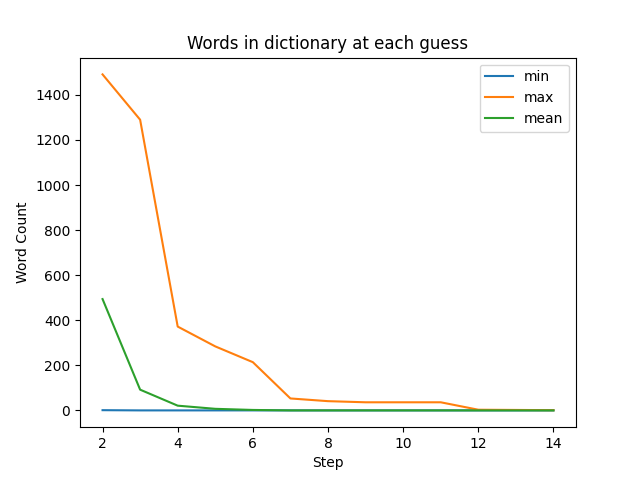
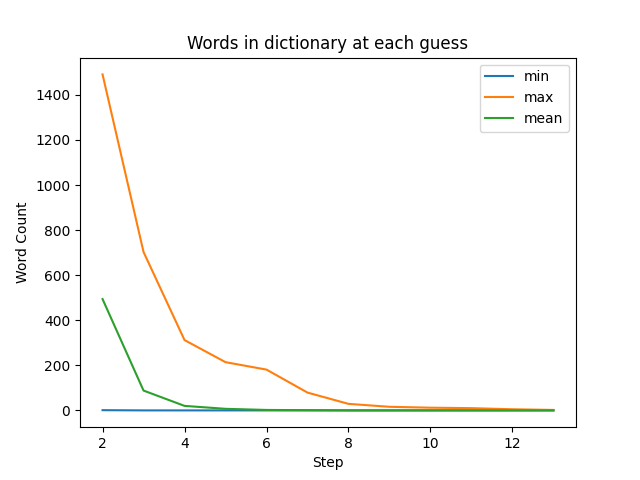
Updated charts and readme.

diff --git a/wordle.py b/wordle.py
@@ -117,7 +117,9 @@ def next_guess(guess, word_chosen, word_list):
     # matches, so if there's a repeat letter that was both green and yellow, this step will keep that
     # word in the list. 
 
+    inexact_matches = False
     if "1" in guess_copy:
+        inexact_matches = True
 
         # We're going to rebuild the word guess list by adding words that have all inexact matches.
         new_words = list()
@@ -317,8 +319,9 @@ def main():
     print("\n\n---------------- Wordle Analyzer ----------------\n\n")
 
     # ------------------------------------------------------------------------------------------------
-    # Histogram of letters from the answer list. ORATE has the higest frequency of letters
+    # Histogram of letters from the total word list. 
     # ------------------------------------------------------------------------------------------------
+    
     # print("Histogram of letters in full word list")
     # histogram = count_letters(word_list)
     # histogram = dict(sorted(histogram.items(), key=lambda item: item[1], reverse=True))
@@ -331,8 +334,9 @@ def main():
     # plt.show()
 
     # ------------------------------------------------------------------------------------------------
-    # Histogram of letters from the answer list. ORATE has the higest frequency of letters
+    # Histogram of letters from the answer list. 
     # ------------------------------------------------------------------------------------------------
+    
     # print("Histogram of letters in answer key")
     # histogram = count_letters(word_answer_list)
     # histogram = dict(sorted(histogram.items(), key=lambda item: item[1], reverse=True))
@@ -344,8 +348,9 @@ def main():
     # plt.show()
 
     # ------------------------------------------------------------------------------------------------
-    # Algorithm test words
+    # Algorithm test words - single pass through solver
     # ------------------------------------------------------------------------------------------------
+    
     # # No letter overlap
     # guess = "orate"
     # word_chosen = "biddy"
@@ -356,17 +361,18 @@ def main():
     # guess = "orate"
     # word_chosen = "tides"
     # # All types of matches
-    guess = "orate"
-    word_chosen = "trade"
-    next_guess(guess, word_chosen, word_list)
+    # guess = "orate"
+    # word_chosen = "trade"
+    # next_guess(guess, word_chosen, word_list)
     # # Too many inexact matching letters
     # guess = "ezzze"
     # word_chosen = "hoped"
     # next_guess(guess, word_chosen, word_list)
 
     # ------------------------------------------------------------------------------------------------
-    # Single pass through the solver
+    # Algorithm test - full solve
     # ------------------------------------------------------------------------------------------------
+    
     # guess = "orate"
     # word_chosen = "hoped"
     # numguesses = iterate_until_solved(guess, word_chosen, word_list)
@@ -392,19 +398,20 @@ def main():
     # ------------------------------------------------------------------------------------------------
     # Test seed word against a sample of the entire list
     # ------------------------------------------------------------------------------------------------
-    # shorter_word_list = random.sample(word_guess_list, 2000)
-    # new_word_list = shorter_word_list + word_answer_list
-    # guess = "orate"
-    # numguesses = list()
-    # words_per_step = list()
 
-    # for answerword in word_answer_list:
-    #     word_count_per_step = iterate_until_solved(guess, answerword, new_word_list)
-    #     words_per_step.append(word_count_per_step)
-    #     numguesses.append(len(word_count_per_step))
+    shorter_word_list = random.sample(word_guess_list, 2000)
+    new_word_list = shorter_word_list + word_answer_list
+    guess = "orate"
+    numguesses = list()
+    words_per_step = list()
 
-    # plot_words_per_step(words_per_step)
-    # plot_numguess(numguesses)
+    for answerword in word_answer_list:
+        word_count_per_step = iterate_until_solved(guess, answerword, new_word_list)
+        words_per_step.append(word_count_per_step)
+        numguesses.append(len(word_count_per_step))
+
+    plot_words_per_step(words_per_step)
+    plot_numguess(numguesses)
 
 if __name__ == "__main__":
     main()

diff --git a/README.md b/README.md
@@ -1,73 +1,86 @@
 # Wordle Analysis Tool
 
-## NOTE: updates coming to the charts since I fixed the algorithm
-
 ## Intro
 
-Everyone's addicted to Wordle! I wrote this because I was curiuos about a few things.
+I've been learning both Python and Data Science recently, and I was looking for a fun real-world exercise to apply some of what I've been learning. Given that everyone is addicted to Wordle, I thought I'd do some analysis on Wordle solutions. I had a few questions in mind:
 
 1. What is the best word to start with?
-2. How many steps does it take before the large list of words (~13,000) get pared down to something small?
-3. After a couple of steps, is there a good subset of words to know that will ensure success?
-4. Given a dictionary of words, how many steps would it take on average to solve a Wordle?
-5. Assuming the author of Wordle tried to pick well known words, and assuming that most people don't know 13,000 5-letter words, what is the most realistic number of solving steps? In other words, should an average person be able to solve every Wordl in 6 tries?
+2. Given a dictionary of words, how many steps would it take on average to solve a Wordle puzzle?
+3. How many steps does it take before the large list of words (~13,000) get pared down to something small?
+4. Assuming the author of Wordle tried to pick well-known words, and assuming that most people don't know 13,000 five-letter words, what is a more realistic number of steps? Should an average person be able to solve every Wordle in 6 tries?
 
-This tool isn't design to help you make your next guess. It's designed to run through many wordle rounds in order to do analysis on the overall game.
+Note that this tool isn't design to help you make your next guess. It's designed to run through many wordle rounds in order to do an analysis on the overall game.
 
 ## Caveats
 
-Wordle's *answer key* and *dictionary of allowed words* are both freely available online and easily viewable in Chrome's developer console. These two lists are included in this repo, but they've been alphabetized in the hopes that they aren't too much of a spoiler. Still, **don't look if you don't want to know**. I'm using these word lists as part of the solving algorithm.
+Wordle's *answer key* and *dictionary of allowed words* are both freely available online and easily viewable in Chrome's developer console. These two lists are included in this repo, but they've been alphabetized in the hopes that they aren't too much of a spoiler. Still, **don't look if you don't want to know**. I'm using these word lists as part of the solving algorithm. Note: I don't know when the New York Times will update the Wordle answer key, but it probably doesn't matter for the purpose of answering the questions in this exercise.
 
-As you can see from the code, I'm not an expert Python developer. I've been learning both Python and Data Science, and this seemed like a fun real-world exercise. As with any language, you have to program in it for a while to become fluent. If you see areas where I could have coded something in a more python-like way, please make an issue or leave a pull request.
+As you can see from the code, I'm not yet an expert Python developer. If you see areas where I could have coded something in a more python-like way, please submit an issue or leave a pull request.
 
-Finally, this is work in progress.
+## The Guess Algorithm
 
-## The Solving Algorithm
+The core of this tool is the guessing algorithm. That's probably misnamed because it doesn't make the guess for you. Instead it reduces the dictionary based on the guess you give it using the rules of Wordle. You feed the guess algorithm with 1) your word guess, 2) the answer word, and a 3) dictionary of words that contains all allowable word guesses and answer words. The guess algorithm then does these steps:
 
-You feed the guess algorithm with 1) your word guess, 2) the answer word, and a 3) dictionary of words that contains all allowable word guesses and answer words. The guess algorithm does these steps:
+1. Mark the guess word with "2" for exact matches (right letter, right spot), aka green squares. Mark the guess word with "1" for inexact matches (right letter, wrong spot), aka yellow squares. As with the real Wordle game, if an inexact matching letter appears in multiple places in a word, the first place is the one marked. This algorithm doesn't really care which one is marked, though.
+2. Filter the dictionary of words you supplied based on the exact letter placements. For both debugging purposes and for Step 3, two filtered dictionaries are created. The first is the filtered word list. The second is the same filtered word list but with "-" in place of the exact character matches.
+3. Further reduce this dictionary of words based on the remaining inexact letters, the yellow squares. This filtering uses the word list from Step 2 with the "-" in place of the exact letter matches so that if you have both green and yellow of the same letter, the green matches don't also count as yellow matches.
+4. Finally, remove words from step 3's filtered dictionary that contain unique unmatched letters, the black squares. Also remove words that contain too many matches, e.g. a letter that appears in both a yellow and a black square.
 
-1. Mark the guess word with "2" for exact matches (right letter, right spot), aka green squares. Mark the guess word with "1" for inexact matches (right letter, wrong spot), aka yellow squares. As with the real Wordle game, if an inexact matching letter appears in multiple places in a word, the first place is the one marked.
-2. Filter the dictionary of words based on the exact letter placements. For both debugging purposes and for Step 3, two dictionaries are created. The first is the filtered word list. The second is the filtered word list with "-" in place of the exact character matches.
-3. Filter the reduced dictionary of words based on the remaining inexact letters, the yellow squares. This filtering uses the word list from Step 2 with the "-" in place of the exact letter matches so that if you have two of the same letter, they don't also count as inexact matches.
-4. Finally, remove words from this filtered dictionary that contain unmatched letters, the black squares. One caveat here is if a letter is in both a yelllow square and a black square, I don't remove words that contain only one instance of that letter, rather than two (or more). This was for implementation expediency, but it technically means that there could be a very few number of words left after this step that aren't actually good guesses because they contain too many inexact matching letters. I will go back and fix this at some point, but I believe this impact to be very small relative to the stats I'm trying to gather.
-
-So this guess algorithm represents one guess. To run the algorithm repeatedly towards a solution, you have to keep making guesses, each time feeding in the further-reduced list of words. The seed guess I use is a word with the highest frequency of letters (see below if you don't mind the spoiler). The subsequent gueses are done by having the algorithm randomly pick the next word from the filtered dictionary produced by the previous guess. The algorithm quickly converges to a small list of words, but there can be a long tail as the algorithm picks between the remaining handful of words which are close enough to not bring about big reductions in the filtered dictionary.
+This guess algorithm represents one guess...one step in the puzzle solution. To run the algorithm repeatedly towards a solution, you have to keep making guesses, each time feeding in the further-reduced list of dictionary words from the previous guess. The seed guess I use is a word with the highest frequency of letters (see below if you don't mind the spoiler). The subsequent gueses are done by having the algorithm randomly pick the next word from the filtered dictionary produced by the previous guess. The algorithm pretty quickly converges to a small list of words, but that doesn't mean every puzzle is solvable in 6 steps. See below for more.
 
 ## --------------- SPOILER BELOW ON BEST FIRST GUESS ----------------
 
 ## What is the best word to start with?
 
-This was the first surprise. Let's take a look at two histograms. The first histogram shows the distribution of letters in the entire word list (allowable guesses + answers). The second shows a histogram of only the answer list. Based on this information, you would choose AROSE with the first list and ORATE with the second. Of cousre, we only care about the answers, so ORATE is the world we'll start with in the rest of the simualtions.
+Let's take a look at two histograms. The first histogram shows the distribution of letters in the entire word list (allowable guesses + answers). The second shows a histogram of only the answer list. Based on this information, you would choose AROSE with the first list and ORATE with the second. Those choices would contain the most frequently occurring letters. Since we only care about the answers, ORATE is the world we'll start with in the rest of the simualtions.
 
-You might wonder why these are different, though. The short answer is that the allowable guesses list has a shockingly high number of words that that most people, msylef included, have never heard of. The guess list wasn't intended to be only common words. It was apparently intended to cover most 5-letter words in a dictionary. In the charts below, I try a smaller dictionary to see how it affects game play.
+You might wonder why these staring words and the letter distributions are so different, though. The answer is that the allowable guesses list has a shockingly high number of words that most people, myself included, have never heard of. The allowable guesses list wasn't intended to be only common words as far as I can tell. It was apparently intended to cover most 5-letter words in the English dictionary. In the charts below, I try a smaller dictionary to see how it affects game play.
 
 ![](FullHistogram.png)
 ![](AnswersHistogram.png)
 
-## How many steps does it take to get to a manangeable list?
-
-[1, 2, 3, 4, 5, 6, 7, 8, 9, 10, 11, 12, 13, 14]
-
-Mins:  [12972, 1, 0, 0, 0, 0, 0, 0, 0, 0, 0, 0, 0, 0]
-
-Maxes: [12972, 1491, 1290, 372, 284, 214, 53, 41, 36, 36, 36, 3, 2, 1]
-
-Means: [12972, 494, 92, 21, 7, 2, 0, 0, 0, 0, 0, 0, 0, 0]
-
-![img](DictioaryPerStep.png)
-
-## After a couple of steps, is there a good subset of words to know that will ensure success?
-
-TODO
-
 ## How many steps would it take on average to solve a Wordle?
 
-As noted above, the dictionary of allowable words is quite large (~13,000 words) and is filled with a bunch of words most people don't know. So for this question, we're assuming that someone could know all of the words in the dictionary and then just randomly pick words to get the next guess. In such a scenario, a typical distribution of the number of guesses required to solve every word is below. Again, we're starting with ORATE here, since it has the highest letter count in the answer key.
+As noted above, the dictionary of allowable words is quite large (~13,000 words) and is filled with a bunch of words most people don't know. So for this question, I'm assuming that someone could know all of the words in the dictionary and then just randomly pick words to get the next guess. In such a scenario, a typical distribution of the number of guesses required to solve every word is below. I'm starting with ORATE here, since it has the highest letter count in the answer key. The result makes some sense, given that the distribution is centered at 5 guesses. But there's still a long tail of losing rounds (rounds that take more than 6 guesses).
 
 ![img](NumStepsHistogram.png)
 
+## How many steps does it take to get to a manangeable list?
+
+Taking that last question, what does the dictionary look like at each step? How many steps will it take to reduce that 13,000 word dictionary down to a reasonable size? This is the same data set as the previous question, but tabulated differently. The table and chart below show that by the 4th guess, the list is quite small for the average round of Wordle. Also, on average, most rounds are solved by the 6th guess. That's great, but there is a huge range in dictionary size at each step, and for some rounds, the number of words remaining is still very large after 5 guesses.
+
+|      | 1     |  2  |  3  |  4  |  5  |  6  | 7 | 8 | 9 | 10 | 11 | 12 | 13 |
+| :--: | ----- | :--: | :-: | :-: | :-: | :-: | :-: | :-: | :-: | :-: | :-: | :-: | :-: |
+| Min | 12972 |  1  |  0  |  0  |  0  |  0  | 0 | 0 | 0 | 0 | 0 | 0 | 0 |
+| Mean | 12972 | 494 | 88 | 20 |  7  |  2  | 1 | 0 | 0 | 0 | 0 | 0 | 0 |
+| Max | 12972 | 1491 | 703 | 312 | 214 | 181 | 79 | 29 | 16 | 12 | 10 | 5 | 2 |
+
+![img](DictioaryPerStep.png)
+
 ## How much of a difference does a smaller dictionary make?
 
-But the last questions obscures the fact that most people probalby know maybe 3000 words out of that exhaustive dictionary of 13,000. So let's run this again, but reduce the dictionary size. I didn't feel like going through the entire dictionary and trying to pull out known common words, so I just took a random sample of the dictionary, figuring that this would be close enough to get an idea. I randomly picked 2000 words from the allowed words list and added in the 1315 answer words for a total of 4315 words. Again, I started with ORATE. As you can see, the mean shifted left, and the distribution got tighter. This feels like a better representation of how people actualy play the game. But even with the reduction, there's still a few words that have enough remaining dictionary words in the later steps to trip you up.
+But we said that the allowable guesses dictionary has a huge number of words that most people don't know. If you don't believe me, take a look at the allowed guesses file in this repo. I suspect you won't know many if not most of the words listed. 
+
+So let's run this again, but reduce the dictionary size to something that feels more manageable. The right way to do this would have been to go through the 13,000 words and pick ones that I thought were familiar. However, that's more work than I wanted to do, so instead I just took a random sample of the allowed guesses dictionary, figuring that this would be close enough statistically to get an answer to my question. I randomly picked 2000 words from the allowed words list and added in the 1315 answer words for a total of 4315 words. Again, I started with ORATE, since that's still the word from the answers with the highest letter usage.
+
+As you can see, the mean shifted left, and the distribution got tighter, both indicators that in practical terms, solving a Worlde in 6 steps seems realistic for most words. This feels like a better representation of how people actually play the game. Yet even with the reduction, there are still a few words that have enough remaining dictionary words in the later steps to trip you up. I wonder if I had manually reduced the dictionary to common known words if the stats would improve even more.
+
+
+|      | 1    |  2  |  3  |  4  | 5 | 6 | 7 | 8 | 9 | 10 |
+| :--: | ---- | :-: | :-: | :-: | :-: | :-: | :-: | :-: | :-: | :-: |
+| Min | 4315 |  1  |  0  |  0  | 0 | 0 | 0 | 0 | 0 | 0 |
+| Mean | 4315 | 164 | 26 |  7  | 2 | 0 | 0 | 0 | 0 | 0 |
+| Max | 4315 | 428 | 176 | 139 | 82 | 16 | 12 | 8 | 7 | 1 |
 
 ![img](NumSteps2000Histogram.png)
+![img](DictioaryPerStep2000.png)
+
+## Conclustion and Next Steps
+
+I have more questions, but not enough time. 
+
+1. If I did a manually reduction in the allowed guesses dictionary, would that tighten up the distribution even more?
+2. What if ORATE is a good word statisitically, but not a good word practically? Is there a better starting word that drives down the solution list to a smaller set of possible words faster? I'm skeptical of this, but it's worth simulating.
+3. Similarly, is there a subset of words in guesses two and three that would more quickly reduce the allowed guesses dictionary. For example, if I could memory 100 words, would that virtually guarantee that I could solve the puzzle in six steps?
+
+There are probably other things I'll think of and simulate as a have time.
